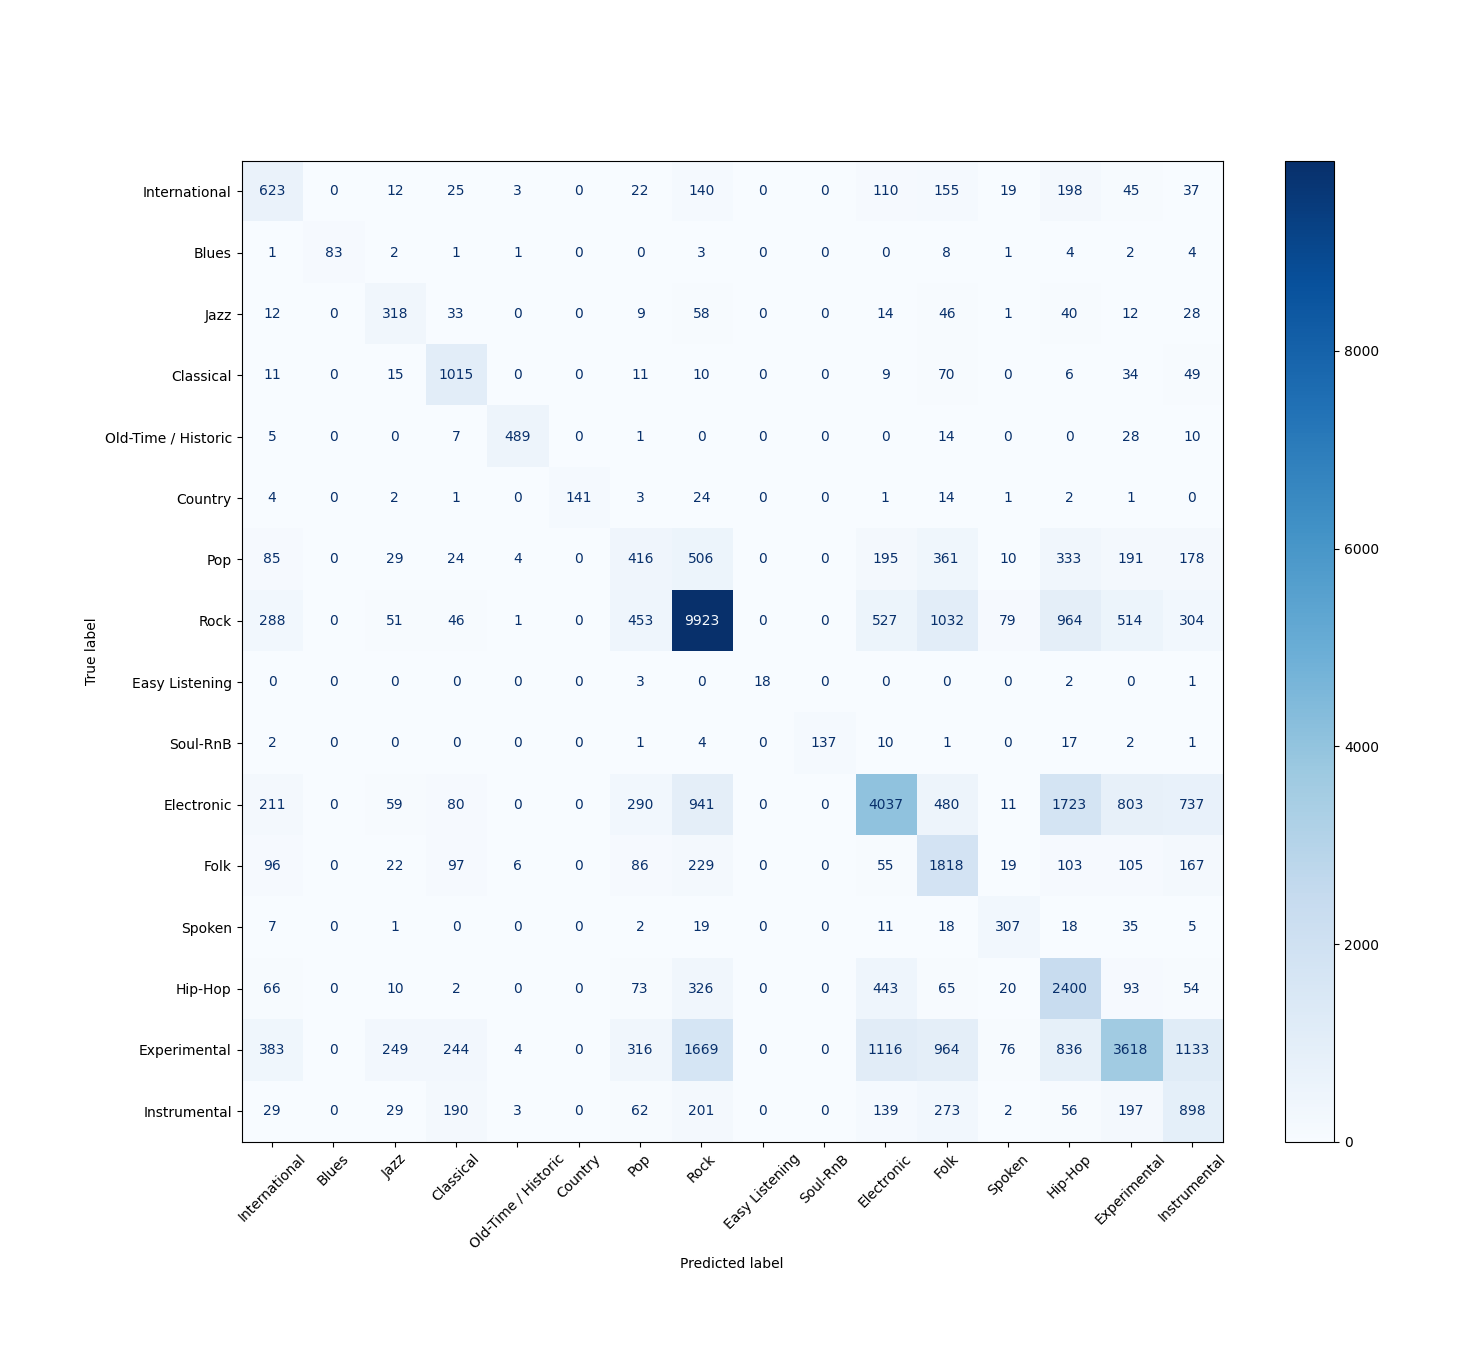
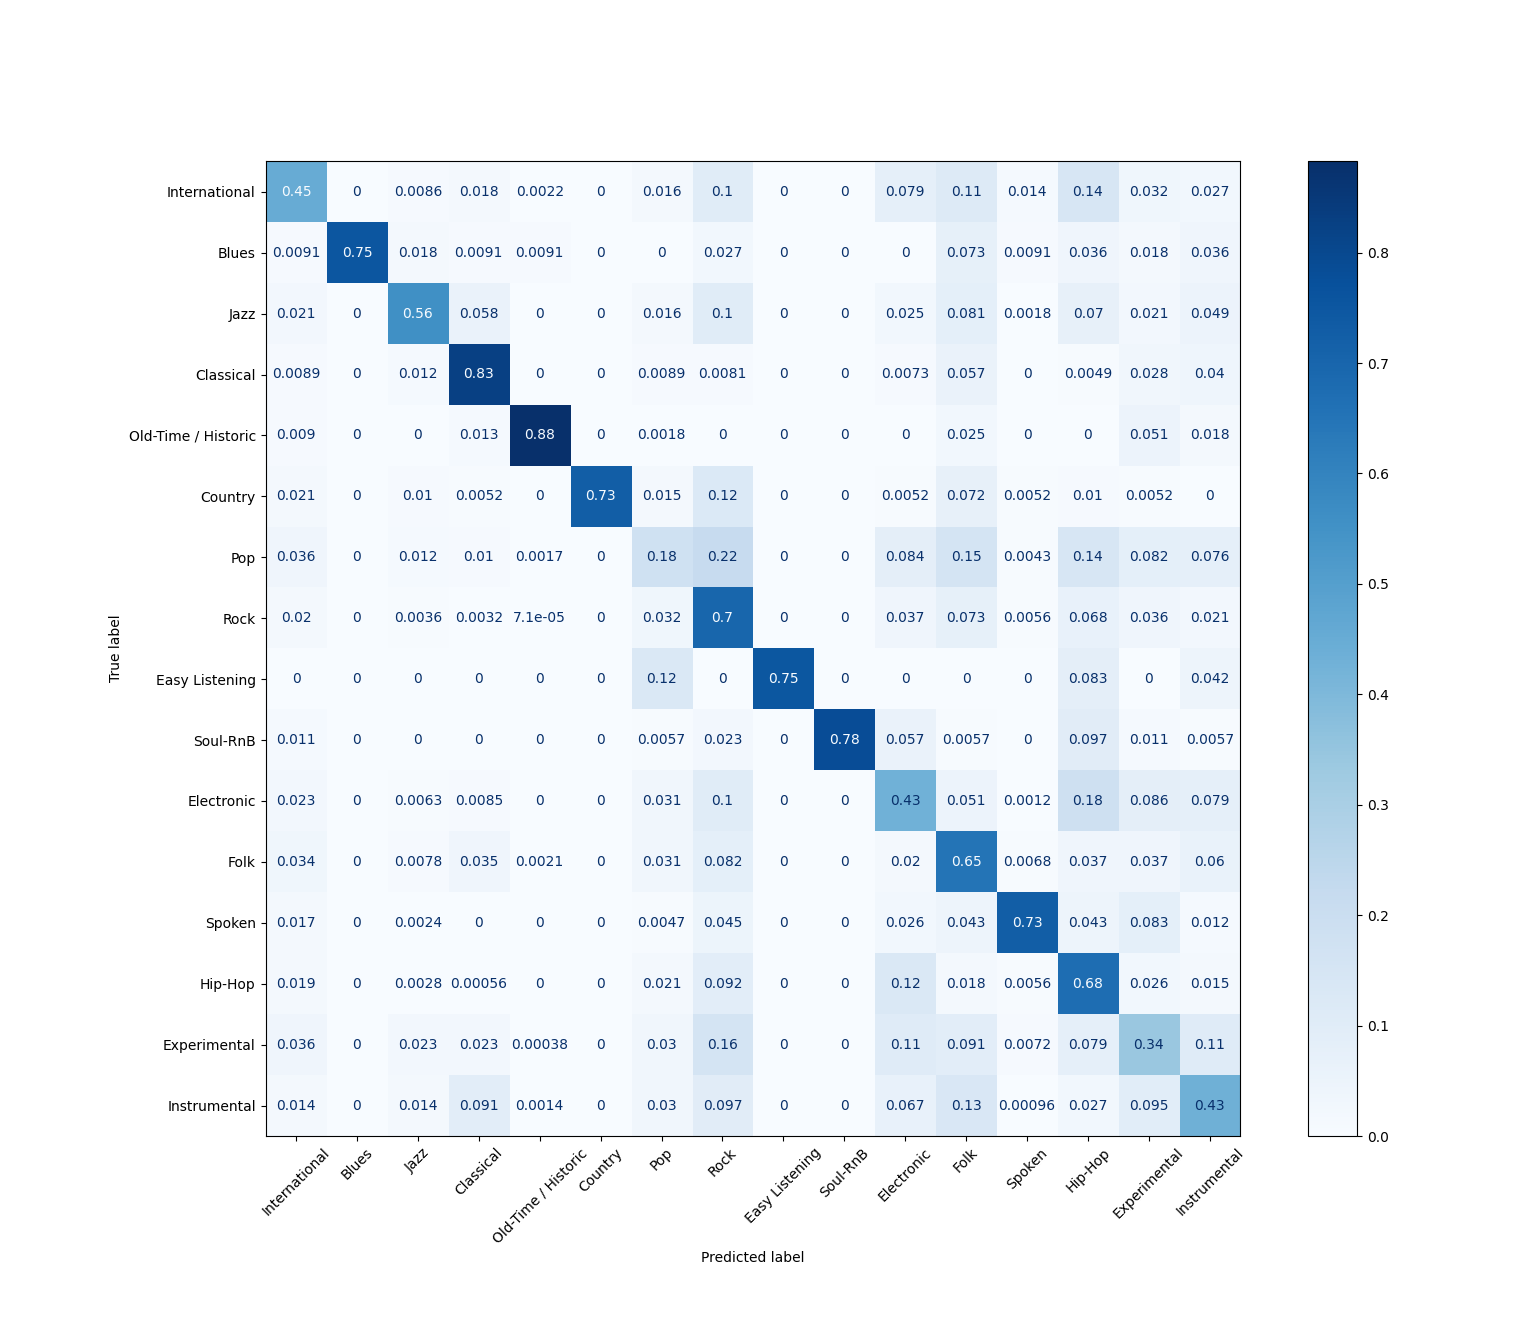
Normalized cm

diff --git a/testing.py b/testing.py
@@ -27,8 +27,8 @@ def first_iteration():
 # 5-fold cross-validation function with quantile-based discretization (100 buckets)
 def second_iteration():
     preprocessing.BUCKETS = 100
-    # preprocessing.parse_data(quantile_based=True)
-    # preprocessing.shuffle_data()
+    preprocessing.parse_data(quantile_based=True)
+    preprocessing.shuffle_data()
 
     learning.INPUT_CSV = "data/shuffle_data.csv"
     
@@ -51,10 +51,9 @@ def second_iteration():
     genre_map = dict(zip(genres.index, genres['title']))
     display_labels = [genre_map[g] for g in labels]
 
-    cm = confusion_matrix(full_y_true, full_y_pred)
+    cm = confusion_matrix(full_y_true, full_y_pred, normalize='true')
     disp = ConfusionMatrixDisplay(confusion_matrix=cm, display_labels=display_labels)
     disp.plot(cmap="Blues", xticks_rotation=45)
-    plt.savefig('cm_2nditer.png')
     plt.show()
 
 
